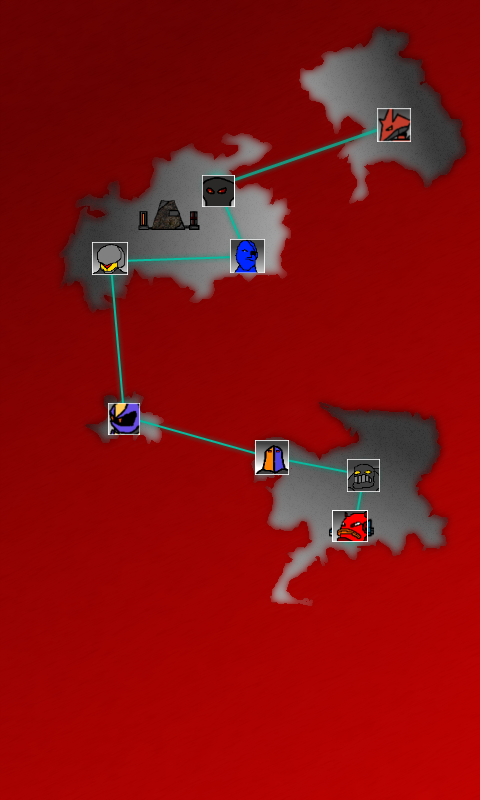
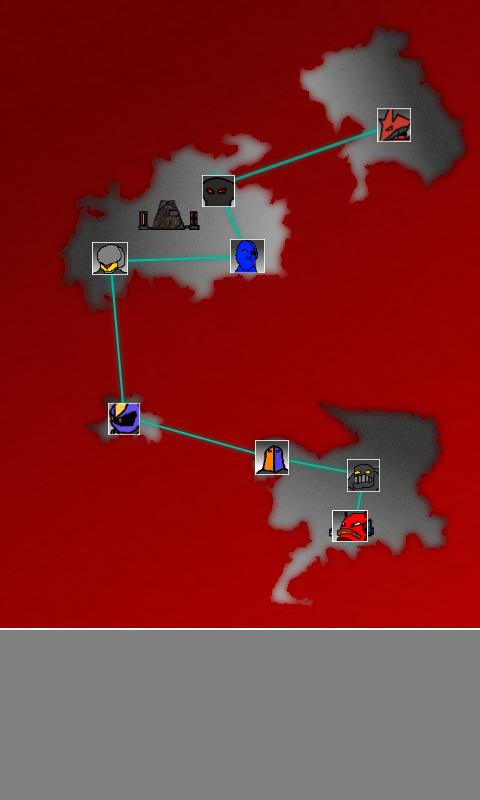
Work on world map has been done

Changed region(s): [[0.0, 0.7812, 1.0, 1.0]]

diff --git a/TTG/TTG/TTG/States/WorldMap.cs b/TTG/TTG/TTG/States/WorldMap.cs
@@ -13,40 +13,157 @@ namespace TTG
     public class WorldMap : GameState
     {
         Vector2[] playerPos = new Vector2[8];
-        Texture2D worlMapTex, playerIconTex;
+        Texture2D 
+            worlMapTex, 
+            playerIconTex,
+            EngageBtnTex,
+            MoveFwdBtnTex,
+            MoveBkBtnTex,
+            QuitBtnTex;
+        TitleButton EngageBtn, FwdBtn, BkBtn, QuitBtn;
+        SpriteFont _font;
         SpriteBatch _spriteBatch;
         int levelNumber = 0;
+
 
         public WorldMap(Game1 parent)
             :base(parent)
         {
-            playerPos[0] = new Vector2(338, 542);
+            playerPos[0] = new Vector2(338, 522);
             playerPos[1] = new Vector2(357, 472);
             playerPos[2] = new Vector2(271, 454);
             playerPos[3] = new Vector2(117, 408);
             playerPos[4] = new Vector2(109, 256);
             playerPos[5] = new Vector2(240, 251);
             playerPos[6] = new Vector2(212, 182);
-            playerPos[7] = new Vector2(113, 382);
+            playerPos[7] = new Vector2(382, 120);
         }
 
         public override void Load(ContentManager content, GraphicsDevice graphics)
         {
             base.Load(content, graphics);
+
             worlMapTex = content.Load<Texture2D>("volcanis map");
             playerIconTex = content.Load<Texture2D>("player icon");
+            MoveBkBtnTex = content.Load<Texture2D>("MoveBk");
+            MoveFwdBtnTex = content.Load<Texture2D>("MoveFWD");
+            EngageBtnTex = content.Load<Texture2D>("EngageBtn");
+            QuitBtnTex = content.Load<Texture2D>("QuitBtnMap");
+
             _spriteBatch = new SpriteBatch(graphics);
+
+            BkBtn = new TitleButton(
+                MoveBkBtnTex, MoveBkBtnTex,
+                null,
+                new Rectangle(0, 800 - 51, 51, 51));
+            BkBtn.OnPress += new TitleButton.PressedEventHandler(bkBtn_OnPress);
+           
+            FwdBtn = new TitleButton(
+                MoveFwdBtnTex, MoveFwdBtnTex,
+                null,
+                new Rectangle(100, 800 - 51, 51, 51));
+            FwdBtn.OnPress += new TitleButton.PressedEventHandler(fwdBtn_OnPress);
+
+            EngageBtn = new TitleButton(
+                EngageBtnTex, EngageBtnTex,
+                null,
+                new Rectangle(200 + 5, 800 - 51, 51, 51));
+            EngageBtn.OnPress += new TitleButton.PressedEventHandler(engageBtn_OnPress);
+
+            QuitBtn = new TitleButton(
+                QuitBtnTex, QuitBtnTex,
+                null,
+                new Rectangle(480 - 51, 800 - 51, 51, 51));
+            QuitBtn.OnPress += new TitleButton.PressedEventHandler(quitBtn_OnPress);
+
+            _font = content.Load<SpriteFont>("UIFont");
         }
+
+        void bkBtn_OnPress(object sender, EventArgs e)
+        {
+            if (levelNumber > 0)
+            {
+                levelNumber--;
+            }
+        }
+
+        void fwdBtn_OnPress(object sender, EventArgs e)
+        {
+            if (levelNumber < 7)
+            {
+                levelNumber++;
+            }
+        }
+
+        void engageBtn_OnPress(object sender, EventArgs e)
+        {
+            
+        }
+
+        void quitBtn_OnPress(object sender, EventArgs e)
+        {
+            ChangeScreen(_parent.TitleScreenState);
+        }
+
         public override void Draw()
         {
             _spriteBatch.Begin();
             _spriteBatch.Draw(worlMapTex, new Vector2(0, 0), Color.White);
-            _spriteBatch.Draw(playerIconTex, playerPos[levelNumber - 1], Color.White);
+            _spriteBatch.Draw(playerIconTex, playerPos[levelNumber], Color.White);
+            BkBtn.Draw(_spriteBatch);
+            FwdBtn.Draw(_spriteBatch);
+            QuitBtn.Draw(_spriteBatch);
+            EngageBtn.Draw(_spriteBatch);
+            if (levelNumber == 0)
+            {
+                //fancyText.SetMessage("Goober", colorer);
+                _spriteBatch.DrawString(_font, "Goober", new Vector2(20, 650), Color.White);
+            }
+            if (levelNumber == 1)
+            {
+                //fancyText.SetMessage("Blortho", colorer)
+                _spriteBatch.DrawString(_font, "Blortho", new Vector2(20, 650), Color.White); ;
+            }
+            if (levelNumber == 2)
+            {
+                //fancyText.SetMessage("Cumus", colorer);
+                _spriteBatch.DrawString(_font, "Cumus", new Vector2(20, 650), Color.White);
+            }
+            if (levelNumber == 3)
+            {
+                //fancyText.SetMessage("Rojin", colorer);
+                _spriteBatch.DrawString(_font, "Rojin", new Vector2(20, 650), Color.White);
+            }
+            if (levelNumber == 4)
+            {
+                //fancyText.SetMessage("Atra", colorer);
+                _spriteBatch.DrawString(_font, "Atra", new Vector2(20, 650), Color.White);
+            }
+            if (levelNumber == 5)
+            {
+                //fancyText.SetMessage("Senshi", colorer);
+                _spriteBatch.DrawString(_font, "Senshi", new Vector2(20, 650), Color.White);
+            }
+            if (levelNumber == 6)
+            {
+                //fancyText.SetMessage("Obour", colorer);
+                _spriteBatch.DrawString(_font, "Obour", new Vector2(20, 650), Color.White);
+            }
+            if (levelNumber == 7)
+            {
+                _spriteBatch.DrawString(_font, "Spardi", new Vector2(20, 650), Color.White);
+            }
             _spriteBatch.End();
         }
+
         public override void Update(GameTime gameTime, MouseState newMouse, MouseState oldMouse)
         {
-            base.Update(gameTime, newMouse, oldMouse);
+            BkBtn.Update(newMouse, oldMouse);
+            FwdBtn.Update(newMouse, oldMouse);
+            EngageBtn.Update(newMouse, oldMouse);
+            QuitBtn.Update(newMouse, oldMouse);
+            
+            //base.Update(gameTime, newMouse, oldMouse);
         }
     }
 }

diff --git a/TTG/TTG/TTG/Game1.cs b/TTG/TTG/TTG/Game1.cs
@@ -72,6 +72,15 @@ namespace TTG
             }
         }
 
+        WorldMap _campaignMap;
+        public GameState CampaignMap
+        {
+            get
+            {
+                return _campaignMap;
+            }
+        }
+
         Cutscene _introCutscene;
         public GameState IntroCutscene
         {
@@ -118,22 +127,10 @@ namespace TTG
             _timeAttack = new TimeAttack(this);
             _timeAttack.Load(Content, GraphicsDevice);
 
-            //Cutscene Stuff
-            _introCutscene = new Cutscene(this);
-            _introCutscene.Load(Content, GraphicsDevice);
-            Texture2D intro1 = Content.Load<Texture2D>("Intro1");
-            Texture2D intro2 = Content.Load<Texture2D>("Intro2");
-            _introCutscene.AddFrame(intro1, "Two hours ago, the Earth Council received", 
-                "a message from the terrorist organisation", "known as Zeno.");
-            _introCutscene.AddFrame(intro1, "The message stated that if the Earth Council does not", 
-                "surrender their imprisoned leaders, they will attack", "various Earth colonies around the galaxy");
-            _introCutscene.AddFrame(intro1, "The guys down at Communications managed to track down",  
-                "the source of the message to Volcanis, a fiery planet",  "situated in the delta quadrant");
-            _introCutscene.AddFrame(intro2, "We believe that the remaining Zeno generals are on Volcanis,", 
-                "harnessing the planets abundant resources", "to build an army of fire warriors");
-            _introCutscene.AddFrame(intro2, "Your mission, Commander is for you and your unit",
-                "to travel to Volcanis, capture the remaining Zeno generals", "and destroy the factories creating these fire warriors");
-            _introCutscene.AddFrame(intro2, "That is all.", "Good Luck Commander", "");
+            _campaignMap = new WorldMap(this);
+            _campaignMap.Load(Content, GraphicsDevice);
+
+            SetupCutscenes();
 
             _currentState = _splashScreen;
         }
@@ -165,6 +162,25 @@ namespace TTG
         {
             _currentState = state;
             _currentState.Reset();
+        }
+
+        void SetupCutscenes()
+        {
+            _introCutscene = new Cutscene(this);
+            _introCutscene.Load(Content, GraphicsDevice);
+            Texture2D intro1 = Content.Load<Texture2D>("Intro1");
+            Texture2D intro2 = Content.Load<Texture2D>("Intro2");
+            _introCutscene.AddFrame(intro1, "Two hours ago, the Earth Council received",
+                "a message from the terrorist organisation", "known as Zeno.");
+            _introCutscene.AddFrame(intro1, "The message stated that if the Earth Council does not",
+                "surrender their imprisoned leaders, they will attack", "various Earth colonies around the galaxy");
+            _introCutscene.AddFrame(intro1, "The guys down at Communications managed to track down",
+                "the source of the message to Volcanis, a fiery planet", "situated in the delta quadrant");
+            _introCutscene.AddFrame(intro2, "We believe that the remaining Zeno generals are on Volcanis,",
+                "harnessing the planets abundant resources", "to build an army of fire warriors");
+            _introCutscene.AddFrame(intro2, "Your mission, Commander is for you and your unit",
+                "to travel to Volcanis, capture the remaining Zeno generals", "and destroy the factories creating these fire warriors");
+            _introCutscene.AddFrame(intro2, "That is all.", "Good Luck Commander", "");
         }
     }
 }

diff --git a/TTG/TTG/TTG/States/TitleScreen.cs b/TTG/TTG/TTG/States/TitleScreen.cs
@@ -89,7 +89,7 @@ namespace TTG
                 content.Load<Texture2D>("CampaignBtn"),
                 content.Load<Texture2D>("CampaignBtn"),
                 select, new Rectangle(100, 170, 256, 128));
-            //TODO add event handler here
+            _campaignBtn.OnPress += new TitleButton.PressedEventHandler(_campaignBtn_OnPress);
 
             _startBtn = new TitleButton(
                 content.Load<Texture2D>("IAbtn"),
@@ -124,6 +124,12 @@ namespace TTG
             _spriteBatch = new SpriteBatch(graphics);
         }
 
+        void _campaignBtn_OnPress(object sender, EventArgs e)
+        {
+            //Add cutscene here
+            ChangeScreen(_parent.CampaignMap);
+        }
+
         void _helpBtn_OnPress(object sender, EventArgs e)
         {
             ChangeScreen(_parent.HelpScreen);
@@ -154,6 +160,7 @@ namespace TTG
                         {
                             _parent.Exit();
                         }
+                        _campaignBtn.Update(newMouse, oldMouse);
                         _taBtn.Update(newMouse, oldMouse);
                         _startBtn.Update(newMouse, oldMouse);
                         _helpBtn.Update(newMouse, oldMouse);

diff --git a/TTG/TTG/TTG/States/Cutscene.cs b/TTG/TTG/TTG/States/Cutscene.cs
@@ -27,6 +27,7 @@ namespace TTG
         bool timerStarted = false;
         SpriteBatch _spriteBatch;
         int i = 0;
+        GameState nextScreen;
         Texture2D cutsceneBG;
         public Cutscene(Game1 parent)
             : base(parent)
@@ -46,6 +47,11 @@ namespace TTG
             frame.TextLine2 = line2;
             frame.TextLine3 = line3;
             Frames.Add(frame);
+        }
+
+        public void SetNextScreen(GameState nextState)
+        {
+            nextScreen = nextState;
         }
 
         public override void Reset()
@@ -87,7 +93,7 @@ namespace TTG
                     stopwatch.Reset();
                 }
             }
-            base.Update(gameTime, newMouse, oldMouse);
+            ChangeScreen(nextScreen);
         }
         
     }
